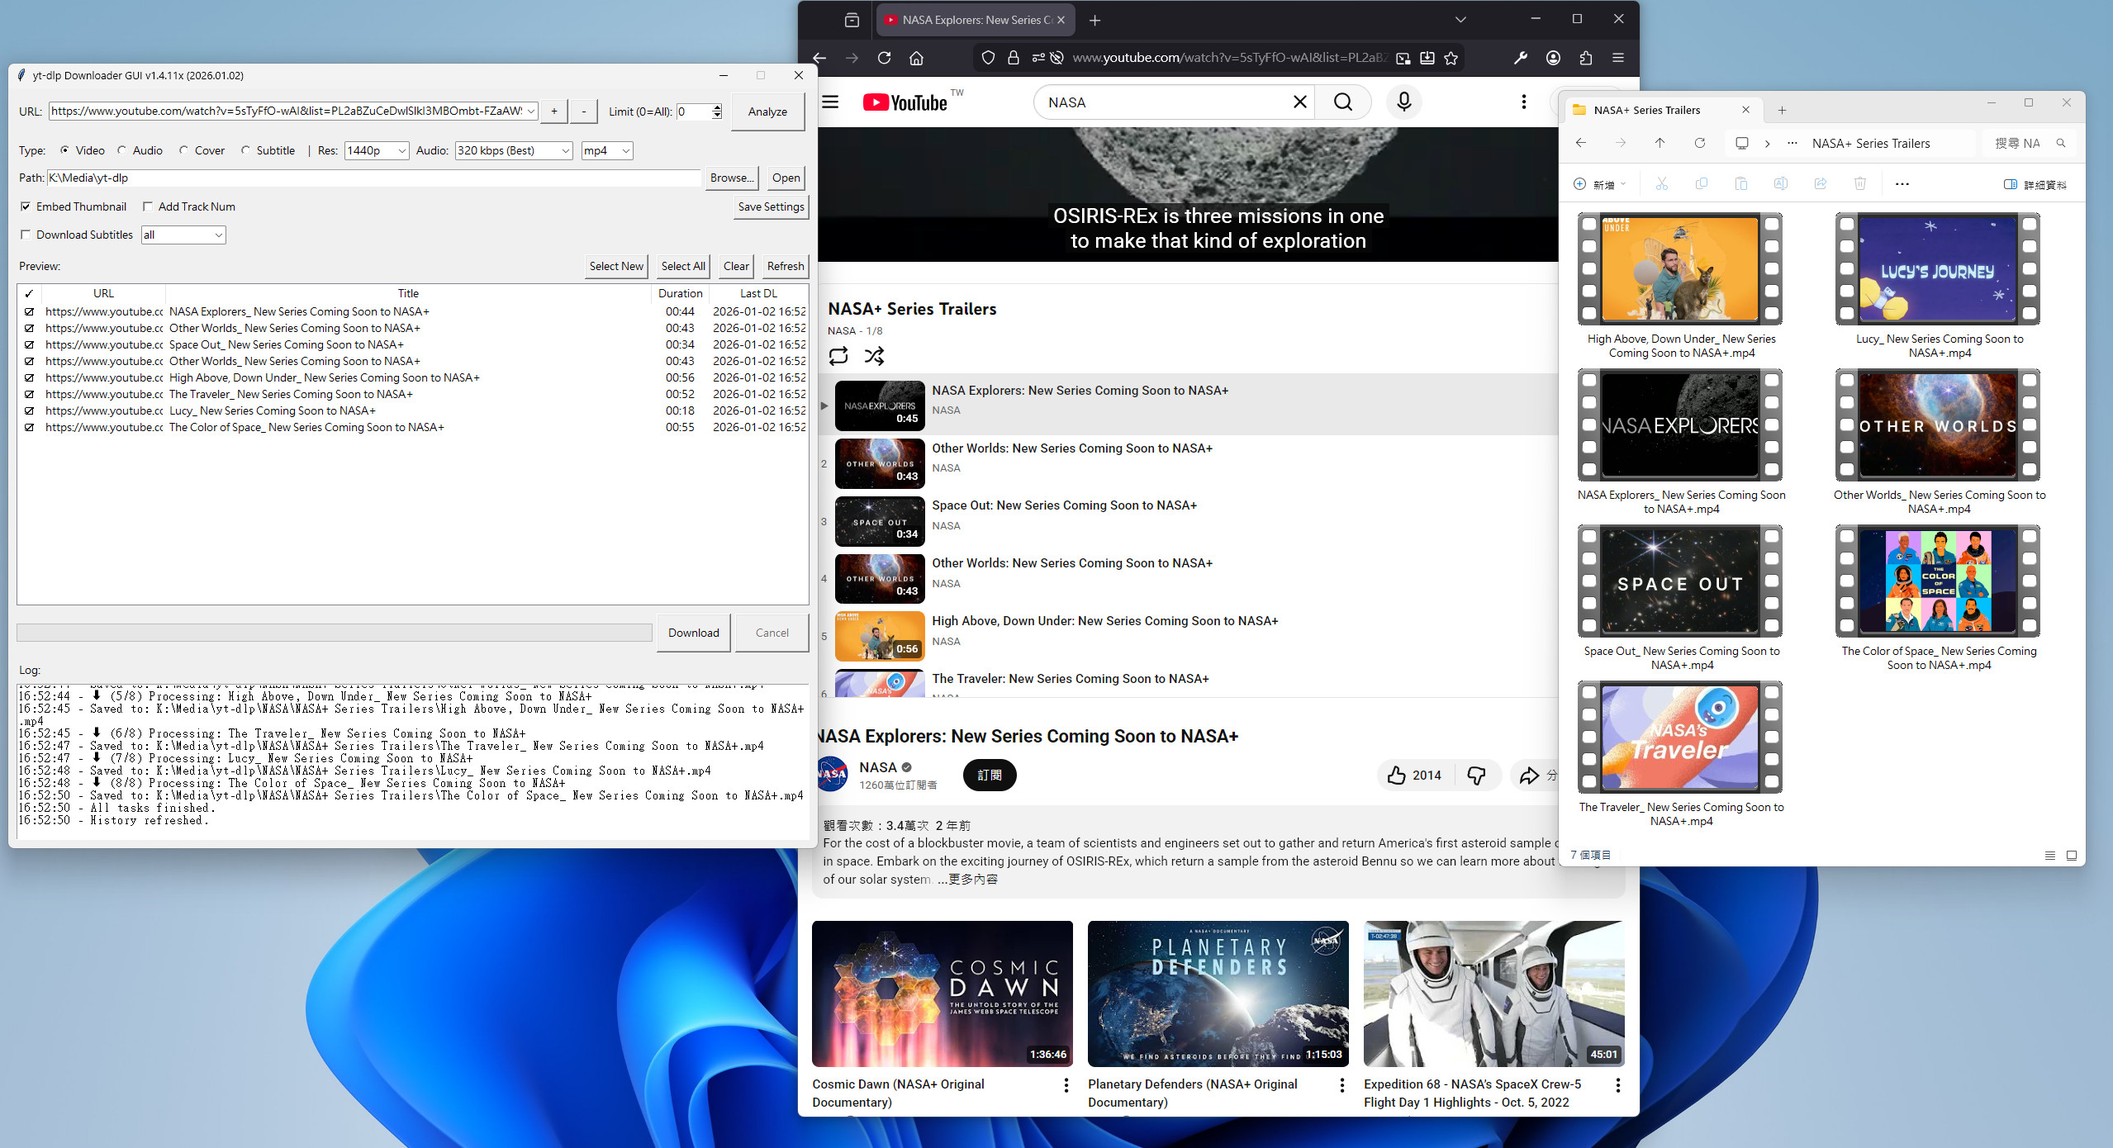
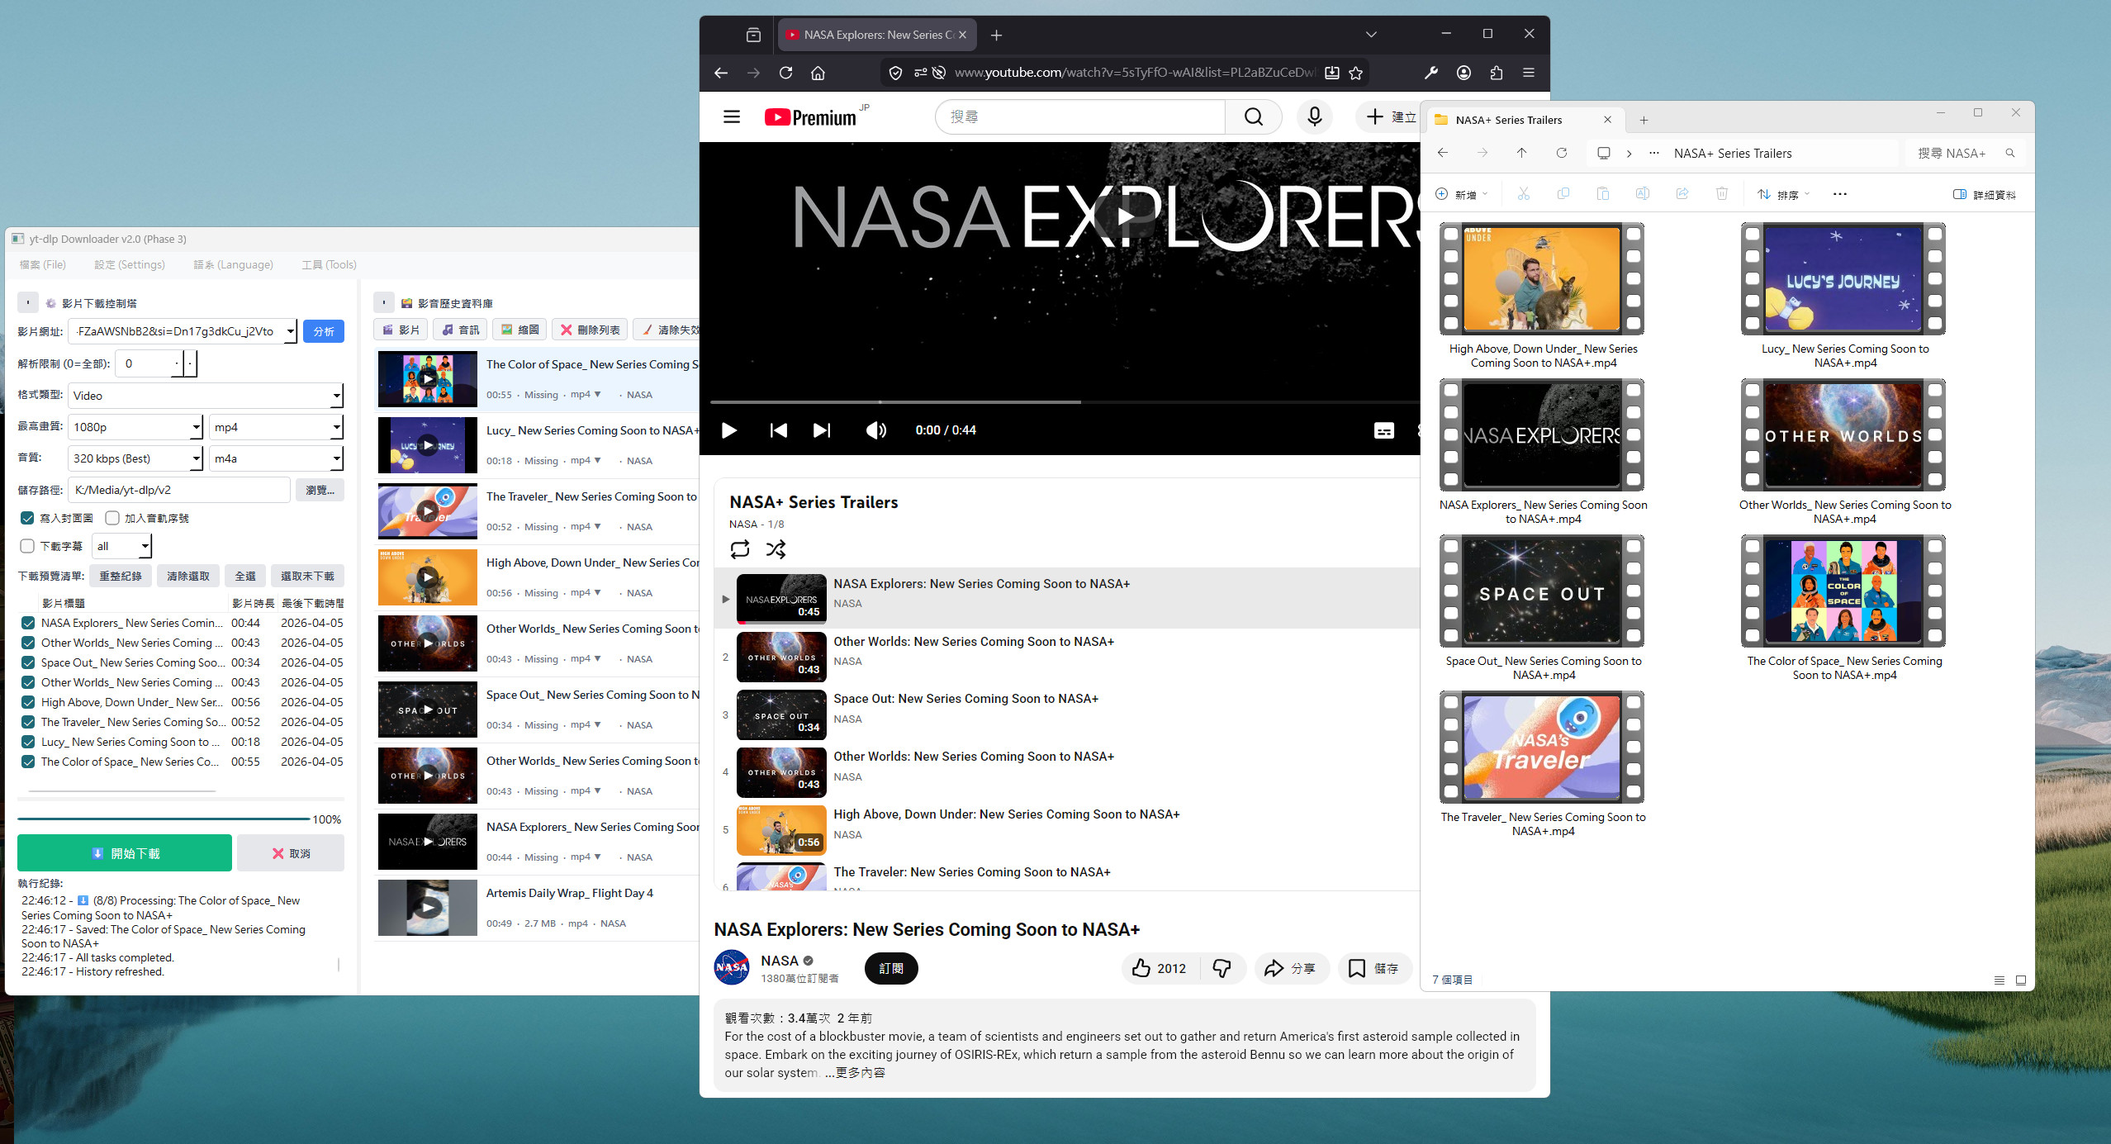
v2 update

diff --git a/v2/ytdlpgui.py b/v2/ytdlpgui.py
@@ -58,7 +58,7 @@ I18N = {
         "col_url": "URL", "col_title": "Title", "col_duration": "Duration", "col_lastdl": "Last DL",
         "menu_file": "File", "action_open_dl": "📂 Open DL Folder", "action_exit": "❌ Exit",
         "menu_settings": "Settings", "action_save_cfg": "💾 Save Config",
-        "menu_lang": "Language", "action_tw": "繁體中文", "action_en": "English",
+        "menu_lang": "Language", "action_tw": "繁體中文", "action_en": "English", "action_ja": "日本語",
         "menu_tools": "Tools", "action_import_json": "📥 Import JSON History", 
         "action_fetch_meta": "🔄 Fetch Missing Meta", "action_scan_all": "🔎 Scan File Locations",
         "lbl_control_title": "⚙ Video Control Tower", "lbl_history_title": "🗃 Media History DB",
@@ -76,7 +76,19 @@ I18N = {
         "action_dl_organize": "📁 Download Organization...",
         "dlg_organize_title": "Download Organization Settings",
         "dlg_by_channel": "Organize by Channel Name",
-        "dlg_by_type": "Organize by Content Type (Videos / Shorts / Playlists)"
+        "dlg_by_type": "Organize by Content Type (Videos / Shorts / Playlists)",
+        "log_saved": "✅ Settings saved.",
+        "log_refresh": "History refreshed.",
+        "log_analyze_start": "Starting analysis...",
+        "log_analyze_fail": "Analysis failed: Invalid URL or network error.",
+        "log_analyze_no_video": "No videos found.",
+        "log_analyze_ok_count": "Analysis complete. Found {} items.",
+        "log_analyze_ok": "Analysis complete.",
+        "log_dl_processing": "⬇ ({0}/{1}) Processing: {2}",
+        "log_dl_saved": "Saved: {0}",
+        "log_dl_warning": "Warning '{0}': {1}",
+        "log_dl_done": "All tasks completed.",
+        "log_dl_cancelled": "Cancelled by user"
     },
     "zh-TW": {
         "url": "影片網址:", "analyze": "分析", "limit": "解析限制 (0=全部):",
@@ -89,7 +101,7 @@ I18N = {
         "col_url": "網址", "col_title": "影片標題", "col_duration": "影片時長", "col_lastdl": "最後下載時間",
         "menu_file": "檔案 (File)", "action_open_dl": "📂 開啟下載目錄", "action_exit": "❌ 結束",
         "menu_settings": "設定 (Settings)", "action_save_cfg": "💾 儲存當前設定",
-        "menu_lang": "語系 (Language)", "action_tw": "繁體中文 (zh-TW)", "action_en": "English (en)",
+        "menu_lang": "語系 (Language)", "action_tw": "繁體中文 (zh-TW)", "action_en": "English (en)", "action_ja": "日本語 (ja-JP)",
         "menu_tools": "工具 (Tools)", "action_import_json": "📥 匯入舊版 JSON 歷史", 
         "action_fetch_meta": "🛜 取得資訊", "action_scan_all": "🔎 掃描檔案位置",
         "lbl_control_title": "⚙ 影片下載控制塔", "lbl_history_title": "🗃 影音歷史資料庫",
@@ -107,7 +119,62 @@ I18N = {
         "action_dl_organize": "⚙ 下載設定 ..",
         "dlg_organize_title": "下載路徑分類設定",
         "dlg_by_channel": "依照頻道名稱分類",
-        "dlg_by_type": "依照內容類型分類 (Videos / Shorts / Playlists)"
+        "dlg_by_type": "依照內容類型分類 (Videos / Shorts / Playlists)",
+        "log_saved": "✅ 設定已儲存。",
+        "log_refresh": "紀錄已重整。",
+        "log_analyze_start": "開始分析...",
+        "log_analyze_fail": "分析失敗: 無效的網址或網路錯誤。",
+        "log_analyze_no_video": "找不到任何影片。",
+        "log_analyze_ok_count": "分析完成。共找到 {} 個項目。",
+        "log_analyze_ok": "分析完成。",
+        "log_dl_processing": "⬇ ({0}/{1}) 處理中: {2}",
+        "log_dl_saved": "儲存成功: {0}",
+        "log_dl_warning": "處理警告 '{0}': {1}",
+        "log_dl_done": "所有任務執行完畢。",
+        "log_dl_cancelled": "手動取消下載"
+    },
+    "ja": {
+        "url": "URL:", "analyze": "分析", "limit": "制限 (0=全て):",
+        "type": "形式:", "res": "解像度:", "audio": "音声:", "path": "保存先:",
+        "browse": "参照...", "open": "開く", "embed_thumb": "サムネイル追加",
+        "add_track": "トラック番号追加", "dl_subtitles": "字幕をダウンロード", 
+        "preview": "プレビュー:", "refresh": "更新", "clear": "クリア", 
+        "select_all": "全て選択", "select_new": "未ダウンロード選択", 
+        "download": "ダウンロード", "cancel": "キャンセル", "log": "ログ:",
+        "col_url": "URL", "col_title": "タイトル", "col_duration": "長さ", "col_lastdl": "最終DL日時",
+        "menu_file": "ファイル (File)", "action_open_dl": "📂 DLフォルダを開く", "action_exit": "❌ 終了",
+        "menu_settings": "設定 (Settings)", "action_save_cfg": "💾 設定を保存",
+        "menu_lang": "言語 (Language)", "action_tw": "繁體中文 (zh-TW)", "action_en": "English (en)", "action_ja": "日本語 (ja)",
+        "menu_tools": "ツール (Tools)", "action_import_json": "📥 JSON履歴をインポート", 
+        "action_fetch_meta": "🔄 情報を取得", "action_scan_all": "🔎 ファイルの場所をスキャン",
+        "lbl_control_title": "⚙ ダウンロード コントロールタワー", "lbl_history_title": "🗃 履歴データベース",
+        "ctx_folder": "📂 フォルダに表示", "ctx_copy": "🔗 リンクアドレスをコピー", "ctx_browser": "🌐 ブラウザで開く",
+        "ctx_fetch": "🔍 情報を取得", "ctx_scan_silent": "🔍 不足ファイルを検索",
+        "ctx_scan_custom": "📂 ファイルの場所を選択...", "ctx_remove": "❌ リストから削除",
+        "ctx_delete": "🗑 ファイルを削除", "ctx_clear": "🧹 リストを全てクリア", 
+        "ctx_dl": "⬇ ダウンロード先..",
+        "ctx_dl_channel": "📺 チャンネルを一括ダウンロード",
+        "ctx_dl_video": "🎬 動画をダウンロード (Video)",
+        "ctx_dl_audio": "🎵 音声をダウンロード (Audio)",
+        "ctx_dl_cover": "🖼 サムネイルをダウンロード (Cover)",
+        "tb_video": "🎬 動画", "tb_audio": "🎵 音声", "tb_cover": "🖼 サムネイル",
+        "tb_remove": "❌ 削除", "tb_clear_dead": "🧹 無効な履歴をクリア", "ph_search": "🔍 タイトル、チャンネル、URLを検索...",
+        "action_dl_organize": "📁 ダウンロード整理設定...",
+        "dlg_organize_title": "ダウンロード整理設定",
+        "dlg_by_channel": "チャンネル名で整理する",
+        "dlg_by_type": "コンテンツタイプで整理する (Videos / Shorts / Playlists)",
+        "log_saved": "✅ 設定を保存しました。",
+        "log_refresh": "履歴を更新しました。",
+        "log_analyze_start": "分析を開始...",
+        "log_analyze_fail": "分析失敗: 無効なURLまたはネットワークエラー。",
+        "log_analyze_no_video": "動画が見つかりません。",
+        "log_analyze_ok_count": "分析完了。{} 個のアイテムを見つけました。",
+        "log_analyze_ok": "分析完了。",
+        "log_dl_processing": "⬇ ({0}/{1}) 処理中: {2}",
+        "log_dl_saved": "保存に成功: {0}",
+        "log_dl_warning": "処理警告 '{0}': {1}",
+        "log_dl_done": "すべてのタスクが完了しました。",
+        "log_dl_cancelled": "手動でキャンセルしました"
     }
 }
 
@@ -369,34 +436,35 @@ class ParseWorker(QThread):
     item_signal = pyqtSignal(int, dict, str, str, str)
     finished_signal = pyqtSignal()
     
-    def __init__(self, url, limit):
+    def __init__(self, url, limit, i18n_dict=None):
         super().__init__()
         self.url, self.limit = url, limit
+        self.i18n = i18n_dict or I18N["zh-TW"]
 
     def run(self):
         try:
-            self.log_signal.emit("開始分析...")
+            self.log_signal.emit(self.i18n.get("log_analyze_start", "開始分析..."))
             ydl_opts = {"quiet": True, "ignoreerrors": True, "extractor_args": {'youtube': ['player_client=default']}}
             if self.limit > 0: ydl_opts["playlistend"] = self.limit
             if "youtube.com/@" in self.url and any(x in self.url for x in ["/videos", "/shorts", "/streams"]):
                 ydl_opts["extract_flat"] = True
 
             with YoutubeDL(ydl_opts) as ydl: info = ydl.extract_info(self.url, download=False)
-            if not info: return self.log_signal.emit("分析失敗: 無效的網址或網路錯誤。")
+            if not info: return self.log_signal.emit(self.i18n.get("log_analyze_fail", "分析失敗: 無效的網址或網路錯誤。"))
 
             if "entries" in info:
                 entries = [e for e in info.get("entries", []) if e]
-                if not entries: return self.log_signal.emit("找不到任何影片。")
+                if not entries: return self.log_signal.emit(self.i18n.get("log_analyze_no_video", "找不到任何影片。"))
                 playlist_title = sanitize_filename(info.get("title", "Unknown Playlist"))
                 channel_name = sanitize_filename(info.get("uploader", "Unknown Channel"))
                 for idx, entry in enumerate(entries, start=1):
                     entry['playlist_index'] = entry.get('playlist_index') or idx
                     self.item_signal.emit(idx, entry, "playlist_video", playlist_title, channel_name)
-                self.log_signal.emit(f"分析完成。共找到 {len(entries)} 個項目。")
+                self.log_signal.emit(self.i18n.get("log_analyze_ok_count", "分析完成。共找到 {} 個項目。").replace("{}", str(len(entries))))
             else:
                 channel_name = sanitize_filename(info.get("uploader", "Unknown Channel"))
                 self.item_signal.emit(1, info, "video", "", channel_name)
-                self.log_signal.emit("分析完成。")
+                self.log_signal.emit(self.i18n.get("log_analyze_ok", "分析完成。"))
         except Exception as e: self.log_signal.emit(f"錯誤: {e}")
         finally: self.finished_signal.emit()
 
@@ -405,12 +473,13 @@ class DownloadWorker(QThread):
     progress_signal = pyqtSignal(int)
     finished_signal = pyqtSignal()
 
-    def __init__(self, settings, items, exact_path=False):
+    def __init__(self, settings, items, exact_path=False, i18n_dict=None):
         super().__init__()
         self.settings = settings
         self.items = items
         self.exact_path = exact_path
         self._is_cancelled = False
+        self.i18n = i18n_dict or I18N["zh-TW"]
 
     def cancel(self): self._is_cancelled = True
 
@@ -459,7 +528,7 @@ class DownloadWorker(QThread):
             base_outtmpl = os.path.join(final_dl_path, sanitize_filename(final_title))
             sandbox_outtmpl = f"{base_outtmpl}_ytdlptmp"
 
-            self.log_signal.emit(f"⬇ ({idx}/{total}) 處理中: {final_title}")
+            self.log_signal.emit(self.i18n.get("log_dl_processing", "⬇ ({0}/{1}) 處理中: {2}").format(idx, total, final_title))
 
             ydl_opts = dict(ydl_opts_base)
             ydl_opts.update({
@@ -496,6 +565,8 @@ class DownloadWorker(QThread):
             if pps: ydl_opts["postprocessors"] = pps
 
             def hook(d):
+                if self._is_cancelled:
+                    raise Exception(self.i18n.get("log_dl_cancelled", "手動取消下載 / Cancelled by user"))
                 if d["status"] == "downloading":
                     try:
                         # 💡 強制清洗 YT 傳回的雜訊字元，確保轉型為 int 不會崩潰
@@ -552,7 +623,7 @@ class DownloadWorker(QThread):
                     final_file = tmp_file.replace(sandbox_outtmpl, base_outtmpl)
                     if os.path.exists(final_file): os.remove(final_file)
                     os.rename(tmp_file, final_file)
-                self.log_signal.emit(f"儲存成功: {final_title}")
+                self.log_signal.emit(self.i18n.get("log_dl_saved", "儲存成功: {0}").format(final_title))
                 
                 conn = sqlite3.connect(DB_PATH)
                 filesize = "Unknown"
@@ -615,12 +686,12 @@ class DownloadWorker(QThread):
                 conn.commit(); conn.close()
                 
             except Exception as e:
-                self.log_signal.emit(f"處理警告 '{final_title}': {e}")
+                self.log_signal.emit(self.i18n.get("log_dl_warning", "處理警告 '{0}': {1}").format(final_title, e))
                 for tmp_file in glob.glob(f"{sandbox_outtmpl}*"):
                     try: os.remove(tmp_file)
                     except: pass
 
-        self.log_signal.emit("所有任務執行完畢。")
+        self.log_signal.emit(self.i18n.get("log_dl_done", "所有任務執行完畢。"))
         self.finished_signal.emit()
 
 # ==========================================
@@ -680,7 +751,8 @@ class MainWindow(QMainWindow):
             
             with open(CONFIG_FILE, "w", encoding="utf-8") as f:
                 json.dump(cfg, f, indent=4, ensure_ascii=False)
-            self.log_msg("✅ 設定已儲存。")
+            lang_dict = I18N.get(self.current_lang, I18N["zh-TW"])
+            self.log_msg(lang_dict.get("log_saved", "✅ 設定已儲存。"))
         except Exception as e: self.log_msg(f"儲存設定檔失敗: {e}")
 
     def _show_organize_dialog(self):
@@ -764,9 +836,11 @@ class MainWindow(QMainWindow):
         self.lang_menu = menubar.addMenu("語系")
         self.action_tw = QAction("繁體中文", self)
         self.action_en = QAction("English", self)
+        self.action_ja = QAction("日本語", self)
         self.action_tw.triggered.connect(lambda: self._change_lang("zh-TW"))
         self.action_en.triggered.connect(lambda: self._change_lang("en"))
-        self.lang_menu.addAction(self.action_tw); self.lang_menu.addAction(self.action_en)
+        self.action_ja.triggered.connect(lambda: self._change_lang("ja"))
+        self.lang_menu.addAction(self.action_tw); self.lang_menu.addAction(self.action_en); self.lang_menu.addAction(self.action_ja)
 
         self.tools_menu = menubar.addMenu("工具")
         self.import_json_action = QAction("📥 匯入舊版 JSON 歷史", self)
@@ -1086,6 +1160,14 @@ class MainWindow(QMainWindow):
         preview_header.addWidget(self.btn_sel_all); preview_header.addWidget(self.btn_sel_new)
         left_layout.addLayout(preview_header)
 
+        # Create a splitter to contain the preview tree and the log area
+        self.left_inner_splitter = QSplitter(Qt.Orientation.Vertical)
+        
+        # Upper container: Preview Tree
+        tree_container = QWidget()
+        tree_layout = QVBoxLayout(tree_container)
+        tree_layout.setContentsMargins(0, 0, 0, 0)
+        
         self.preview_tree = QTreeWidget()
         self.preview_tree.setRootIsDecorated(False)
         self.preview_tree.setIndentation(0)
@@ -1095,10 +1177,16 @@ class MainWindow(QMainWindow):
         self.preview_tree.setColumnWidth(0, 24); self.preview_tree.setColumnWidth(1, 230)
         self.preview_tree.setColumnWidth(2, 60); self.preview_tree.setColumnWidth(3, 140)
         self.preview_tree.itemChanged.connect(self.on_item_changed)
-        left_layout.addWidget(self.preview_tree, stretch=1)
-
+        tree_layout.addWidget(self.preview_tree)
+        self.left_inner_splitter.addWidget(tree_container)
+        
+        # Lower container: Progress, Buttons, and Log
+        log_container = QWidget()
+        log_layout = QVBoxLayout(log_container)
+        log_layout.setContentsMargins(0, 10, 0, 0)
+        
         self.progress_bar = QProgressBar(); self.progress_bar.setValue(0)
-        left_layout.addWidget(self.progress_bar)
+        log_layout.addWidget(self.progress_bar)
 
         bl = QHBoxLayout()
         self.btn_download = QPushButton("⬇ 開始下載")
@@ -1109,12 +1197,17 @@ class MainWindow(QMainWindow):
         self.btn_cancel.setEnabled(False)
         self.btn_cancel.clicked.connect(self.cancel_download)
         bl.addWidget(self.btn_download, stretch=2); bl.addWidget(self.btn_cancel, stretch=1)
-        left_layout.addLayout(bl)
+        log_layout.addLayout(bl)
 
         self.lbl_log = QLabel("執行紀錄:")
-        left_layout.addWidget(self.lbl_log)
-        self.log_text = QTextEdit(); self.log_text.setMaximumHeight(90); self.log_text.setReadOnly(True)
-        left_layout.addWidget(self.log_text)
+        log_layout.addWidget(self.lbl_log)
+        self.log_text = QTextEdit(); self.log_text.setReadOnly(True)
+        log_layout.addWidget(self.log_text)
+        
+        self.left_inner_splitter.addWidget(log_container)
+        self.left_inner_splitter.setSizes([450, 250]) # Default size ratio
+        
+        left_layout.addWidget(self.left_inner_splitter, stretch=1)
 
         # ==========================================
         # 右側歷史長廊
@@ -1263,6 +1356,7 @@ class MainWindow(QMainWindow):
             self.lang_menu.setTitle(lang.get("menu_lang", ""))
             self.action_tw.setText(lang.get("action_tw", ""))
             self.action_en.setText(lang.get("action_en", ""))
+            self.action_ja.setText(lang.get("action_ja", ""))
             self.tools_menu.setTitle(lang.get("menu_tools", ""))
             self.import_json_action.setText(lang.get("action_import_json", ""))
             self.fetch_meta_action.setText(lang.get("action_fetch_meta", ""))
@@ -1353,7 +1447,8 @@ class MainWindow(QMainWindow):
             row = cursor.fetchone()
             if row: item.setText(3, row[0])
         conn.close()
-        self.log_msg("紀錄已重整。")
+        lang_dict = I18N.get(self.current_lang, I18N["zh-TW"])
+        self.log_msg(lang_dict.get("log_refresh", "紀錄已重整。"))
 
     def start_parse(self):
         url = self.url_input.currentText().strip()
@@ -1368,7 +1463,7 @@ class MainWindow(QMainWindow):
             
         self.preview_tree.clear()
         self.btn_analyze.setEnabled(False)
-        self.parse_worker = ParseWorker(url, self.limit_spin.value())
+        self.parse_worker = ParseWorker(url, self.limit_spin.value(), I18N.get(self.current_lang, I18N["zh-TW"]))
         self.parse_worker.log_signal.connect(self.log_msg)
         self.parse_worker.item_signal.connect(self.add_tree_item)
         self.parse_worker.finished_signal.connect(lambda: [self.btn_analyze.setEnabled(True), self.refresh_history_in_tree(), self.update_subtitle_controls()])
@@ -1423,7 +1518,7 @@ class MainWindow(QMainWindow):
         self.btn_download.setEnabled(False); self.btn_cancel.setEnabled(True)
         self.progress_bar.setValue(0)
         
-        self.dl_worker = DownloadWorker(settings, items)
+        self.dl_worker = DownloadWorker(settings, items, i18n_dict=I18N.get(self.current_lang, I18N["zh-TW"]))
         self.dl_worker.log_signal.connect(self.log_msg)
         self.dl_worker.progress_signal.connect(self.progress_bar.setValue)
         self.dl_worker.finished_signal.connect(self._dl_finished)
@@ -1463,7 +1558,7 @@ class MainWindow(QMainWindow):
         
         self.btn_download.setEnabled(False); self.btn_cancel.setEnabled(True)
         self.progress_bar.setValue(0)
-        self.dl_worker = DownloadWorker(settings, items, exact_path=True)
+        self.dl_worker = DownloadWorker(settings, items, exact_path=True, i18n_dict=I18N.get(self.current_lang, I18N["zh-TW"]))
         self.dl_worker.log_signal.connect(self.log_msg)
         self.dl_worker.progress_signal.connect(self.progress_bar.setValue)
         self.dl_worker.finished_signal.connect(self._dl_finished)
